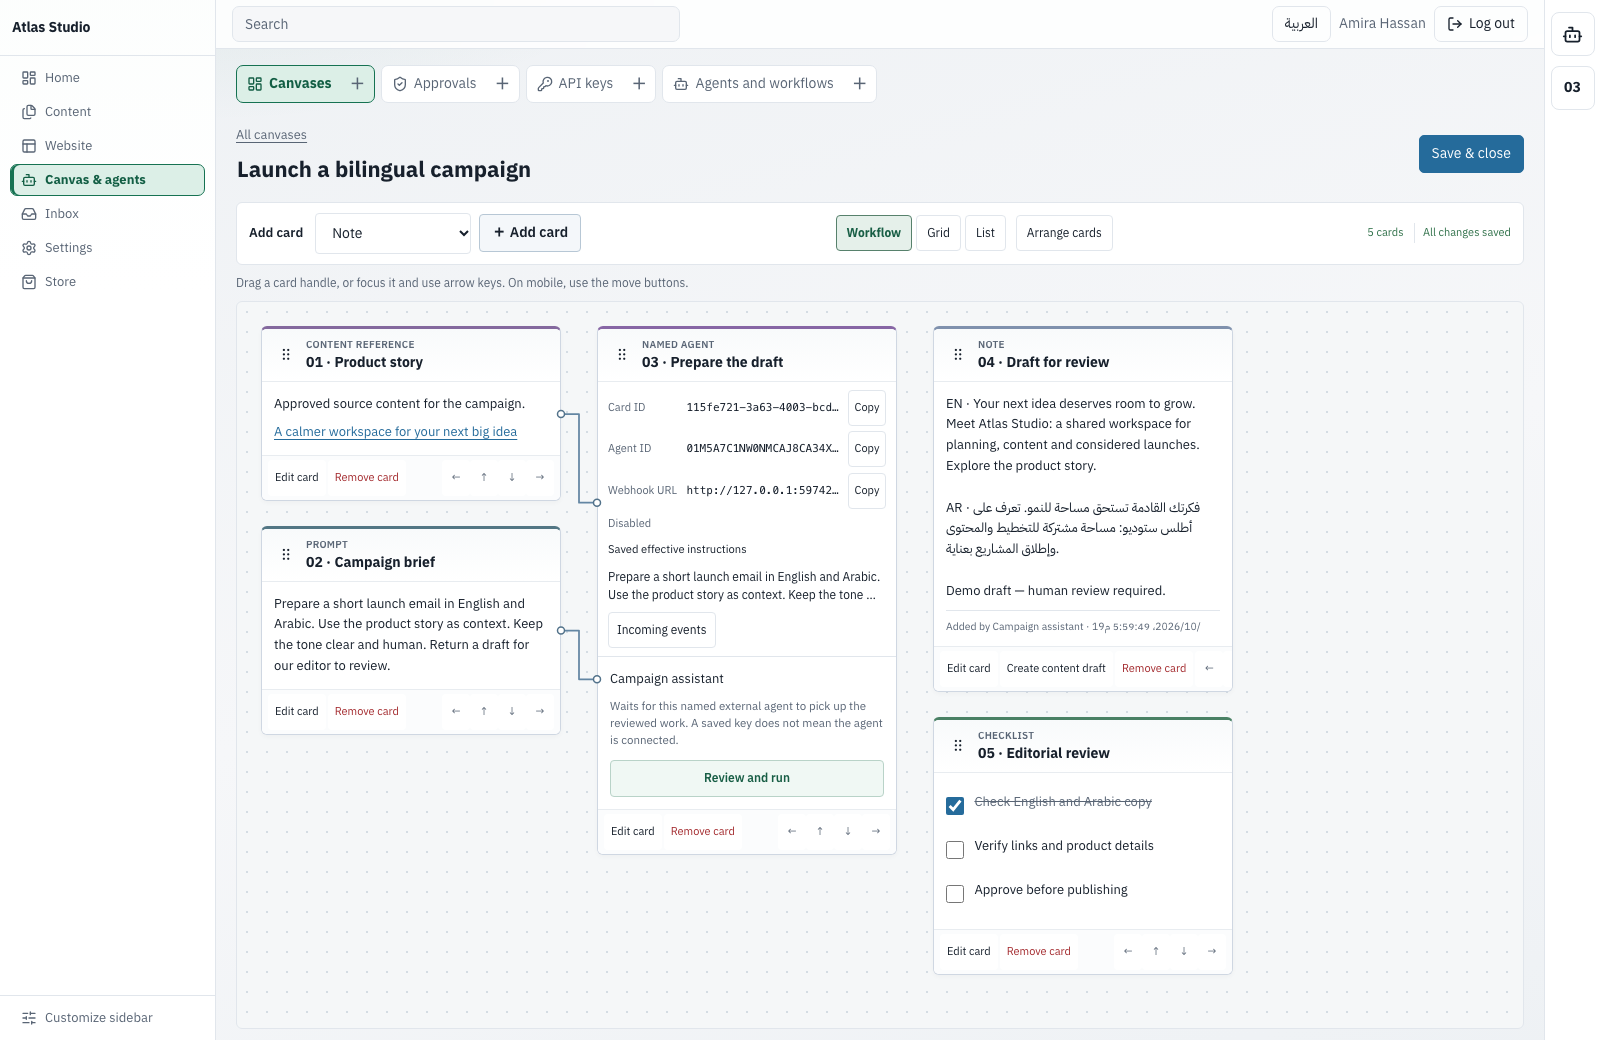
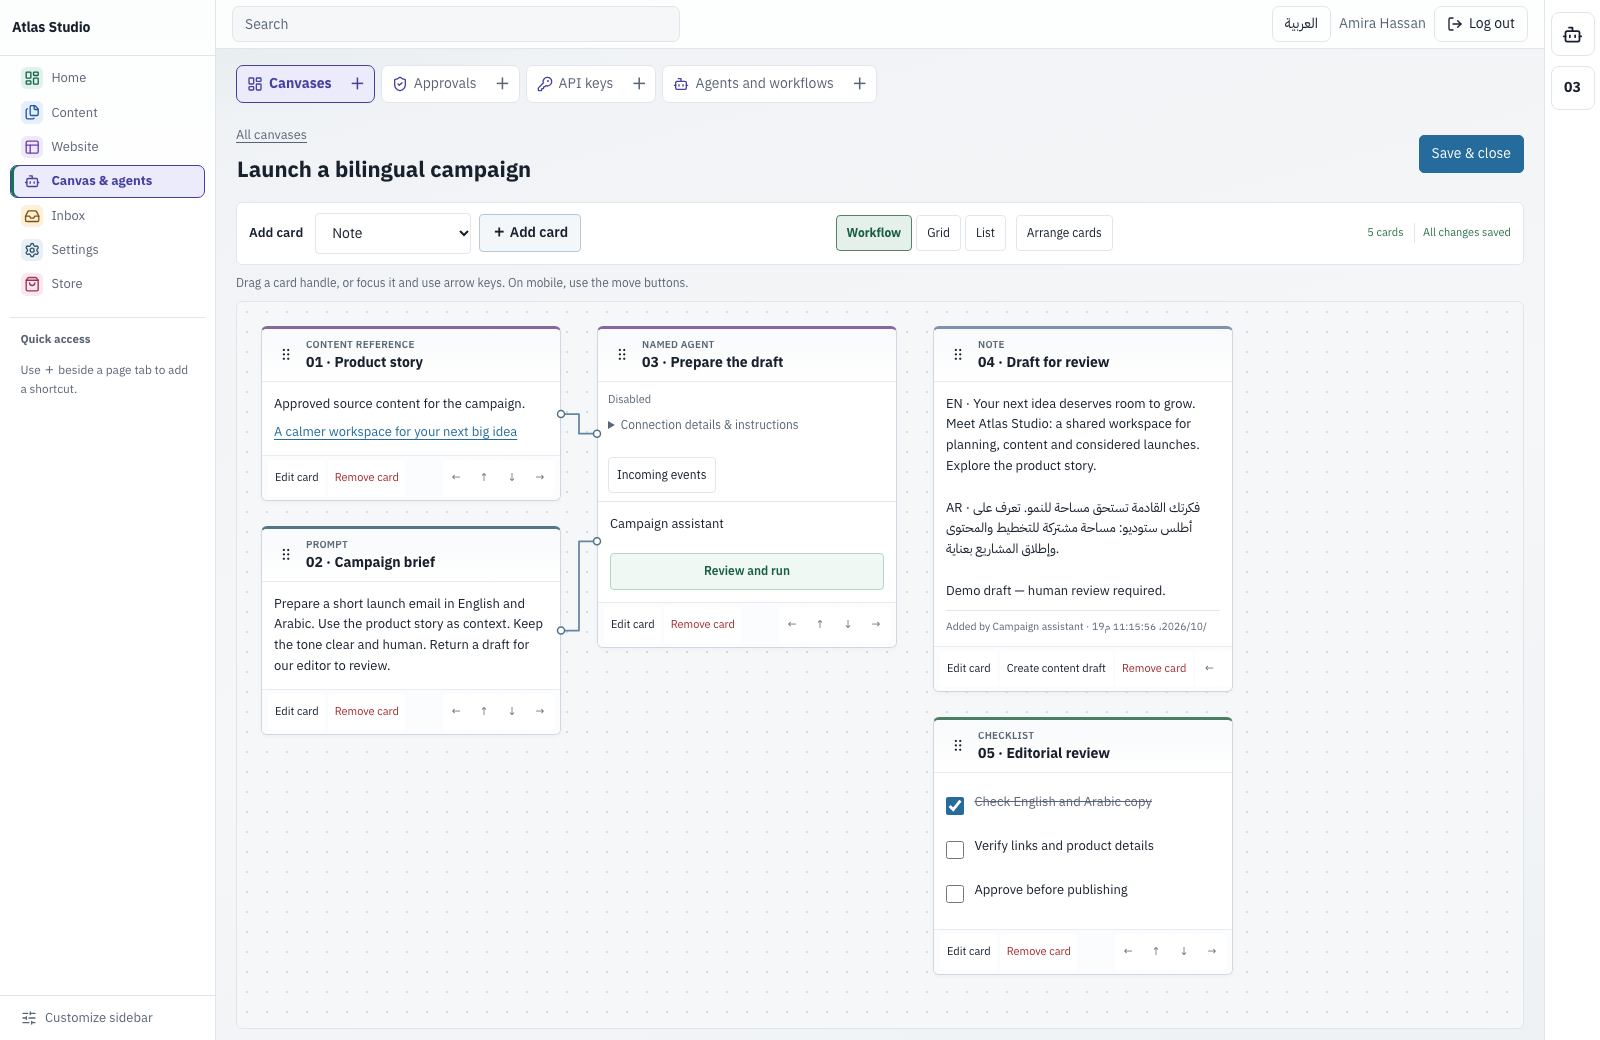
docs: refresh 0.9 workspace screenshots and release guide

diff --git a/docs/ADMIN_WORKSPACE.md b/docs/ADMIN_WORKSPACE.md
@@ -15,7 +15,7 @@ Switching the admin UI language does not change the public `site.locale` or rewr
 
 The dashboard separates everyday work from diagnostics. It opens with a short guide, integration setup status and quick actions, followed by your pinned tools, recent content, audit activity, jobs, system information and your saved canvases. Additional module widgets continue to work.
 
-Arrange dashboard sections by dragging or with their arrow buttons; the order is saved for your account, and **Restore default order** returns to the default layout.
+Open **Customize** before arranging dashboard sections by dragging or with their arrow buttons; the order is saved for your account, and **Restore default order** returns to the default layout.
 
 The recent-content table shows the most recently updated items in public content types, including unpublished items the signed-in user can access. Authors and contributors see only their own items. Private intake reports never enter this table. Titles open the existing content editor; the dashboard never publishes or saves content.
 
@@ -23,7 +23,7 @@ Integration setup status reads local configuration only: opening the dashboard d
 
 ## Pin tools to the dashboard
 
-Use **Add to dashboard** beside an authorized contextual page tab (with touch, mouse or keyboard). The item becomes a personal panel and leaves the contextual navigation; **Return to navigation** puts it back. Pins and their order survive reload and are private to your account. Pinning never changes roles, calls a provider or publishes content, and panels recheck your current permissions.
+Use **Add to dashboard** beside an authorized contextual page tab (with touch, mouse or keyboard). The item becomes a personal dashboard panel and a main-sidebar **Quick access** shortcut, and leaves the contextual navigation; **Return to navigation** puts it back. Pins and their order survive reload and are private to your account. Quick access rechecks current permissions and workspace visibility; hidden or unavailable destinations are not exposed. An old `builder.identity` pin projects to the authorized `site-builder` entry and duplicates are combined without rewriting saved preferences. Pinning never changes roles, calls a provider or publishes content, and panels recheck your current permissions.
 
 The canvas gallery shows only your own saved canvases, with a few safe content previews per board.
 
@@ -43,12 +43,16 @@ Ordering and hiding never grant or revoke permissions. New permitted module link
 
 لوحة الإدارة ثنائية اللغة (عربية وإنجليزية) مع RTL كامل عند اختيار العربية. بدّل لغة الواجهة من زر اللغة في الشريط العلوي. لغة الحساب الافتراضية من **المستخدمون ← تعديل ← اللغة**. لغة الموقع العامة من **الإعدادات ← عام** ولا تتغير تلقائيًا عند تبديل لغة الواجهة.
 
-الرئيسية تبدأ بدليل قصير وحالة إعداد التكاملات والإجراءات السريعة، ثم أدواتك المثبّتة وآخر المحتوى والنشاط والمهام والنظام ولوحاتك المحفوظة. رتّب الأقسام بالسحب أو أزرار الأسهم، ويُحفظ الترتيب لحسابك. الكاتب والمساهم يشاهدان محتواهما فقط، ولا تدخل البلاغات الخاصة في الجدول. حالة الإعداد تقرأ الإعدادات المحلية فقط ولا تختبر أي مزوّد.
+الرئيسية تبدأ بدليل قصير وحالة إعداد التكاملات والإجراءات السريعة، ثم أدواتك المثبّتة وآخر المحتوى والنشاط والمهام والنظام ولوحاتك المحفوظة. افتح «تخصيص» ثم رتّب الأقسام بالسحب أو أزرار الأسهم، ويُحفظ الترتيب لحسابك. الكاتب والمساهم يشاهدان محتواهما فقط، ولا تدخل البلاغات الخاصة في الجدول. حالة الإعداد تقرأ الإعدادات المحلية فقط ولا تختبر أي مزوّد.
 
-استخدم زر «إضافة إلى لوحة التحكم» بجانب تبويب الصفحة داخل قسمها، فيصبح لوحة شخصية ويختفي من القائمة. «إرجاع إلى التنقل» يعيده. التثبيت لا يغيّر الصلاحيات ولا ينشر أي محتوى.
+استخدم زر «إضافة إلى لوحة التحكم» بجانب تبويب الصفحة داخل قسمها، فيصبح لوحة شخصية واختصارًا ضمن «الوصول السريع» في القائمة الرئيسية، ويختفي من تبويبات الصفحات. «إرجاع إلى التنقل» يعيده. التثبيت لا يغيّر الصلاحيات ولا ينشر أي محتوى.
 
 القائمة الرئيسية تجمع الصفحات في ستة أقسام كحد أقصى: الرئيسية، المحتوى، الموقع، الكانفس والوكلاء، الوارد والإعدادات. يظهر المتجر عند توفر أدوات تجارة مسموح بها. اختر القسم ثم التبويب المطلوب؛ الإعدادات تجمع العام والفريق والتكاملات والنظام. تختفي الأقسام الفارغة، وتبقى روابط الإضافات الجديدة متاحة داخل الإعدادات.
 
 من «تخصيص القائمة» يمكنك تحريك المجموعات والعناصر بأزرار لأعلى ولأسفل، وإظهارها أو إخفاؤها، ثم حفظ الترتيب لحسابك فقط. «استعادة الافتراضي» تعيد الترتيب والظهور الأصليين. الصلاحيات لا تتغير.
 
 أول موقع عام: [SITE_BUILDER.md](SITE_BUILDER.md). تبديل القالب: **المظهر ← القوالب**، والتفاصيل في [THEMES.md](THEMES.md).
+
+## Site design
+
+**Website → Design → Site design** shares a saved-site summary and two page tabs: Build site and Visual identity. Creating drafts, activating a prepared site and saving identity remain separate explicit actions. The local identity sample never saves itself. The Build tab requires all existing builder permissions; settings-only users can still open identity. See [the workspace guide](SITE-DESIGN-WORKSPACE.md).

diff --git a/README.md b/README.md
@@ -68,9 +68,9 @@ GoRun Edge is a separate, experimental Workers-based edition with its own D1/R2 
 
 ## A workspace that stays organized
 
-Up to six primary sections keep related tools together, with contextual page tabs above the screen you are using. You see the tools your permissions allow; Store adds an optional seventh section when permitted commerce tools are available. Personal visibility, navigation order and dashboard pins stay yours.
+Up to six primary sections keep related tools together, with contextual page tabs above the screen you are using. You see the tools your permissions allow; Store adds an optional seventh section when permitted commerce tools are available. Colored categories keep their text labels and selected borders. Personal visibility, navigation order and dashboard pins stay yours; pinned tools remain within reach under **Quick access** in the main sidebar.
 
-![GoRun 0.6 content workspace with grouped sections, contextual page tabs and the opposite-side agents rail](assets/branding/screenshots/admin-navigation-en.png)
+![GoRun 0.9 content workspace with grouped sections, contextual page tabs and the opposite-side agents rail](assets/branding/screenshots/admin-navigation-en.png)
 
 The screenshots use an isolated demo site with fictional content. The layout mirrors for Arabic and stays usable on mobile. [Arabic mobile menu](assets/branding/screenshots/admin-navigation-ar-mobile.png) · [Workspace guide](docs/ADMIN_WORKSPACE.md).
 
@@ -90,7 +90,13 @@ Manage posts, pages, custom content types, fields, media and navigation in one p
 
 ## Build a site you can make your own
 
-Start with a bundled theme, create pages with section-based layouts, and preview before publishing. Child themes and filesystem templates let developers customize the result. Activating a theme does not create starter pages; use the site builder for starter content.
+Start with a bundled theme, create pages with section-based layouts, and preview before publishing. Child themes and filesystem templates let developers customize the result. Activating a theme does not create starter pages; use the site builder for starter content. The default reading theme presents a featured article, recent posts and guide links drawn from actual published content. [Default-theme demo](assets/branding/screenshots/theme-home-en.png) · [Arabic article on mobile](assets/branding/screenshots/theme-post-ar-mobile.png).
+
+**Website → Design → Site design** brings **Build site** and **Visual identity** into one workspace. Prepare pages as drafts, review activation separately, and preview colors and typography locally before explicitly saving identity. Existing site content and theme settings remain yours. [Site design guide](docs/SITE-DESIGN-WORKSPACE.md).
+
+![Unified Site design workspace with saved-site summary, visual identity controls and a local sample](assets/branding/screenshots/site-design-identity-en.png)
+
+[Build-site step](assets/branding/screenshots/site-design-build-en.png) · [Arabic mobile identity](assets/branding/screenshots/site-design-identity-ar-mobile.png).
 
 ![Page builder with an Arabic interface and live preview](assets/branding/screenshots/builder-ar.png)
 
@@ -131,6 +137,12 @@ Switch between **Workflow**, **Grid** and **List** views. Arrange cards using th
 *Screenshots use a fictional business and synthetic content. The example assistant response is supplied by a test client through the real MCP workflow; it is not a model-quality benchmark. [Arabic view](assets/branding/screenshots/canvas-ar.png) · [Mobile view](assets/branding/screenshots/canvas-mobile.png).*
 
 **Agent bundles:** add bounded inline skill instructions and reference text to reviewed external-agent or managed-text requests, and attach version-pinned MCP connection profiles with saved discovery status. [Manage skills and MCP references](docs/AGENT-BUNDLES.md). External clients configure their own endpoints, credentials and tools. Named OpenAI-compatible managed text agents can use [explicitly selected MCP tools](docs/MANAGED-MCP-TOOLS.md), with owner review of every exact call and a private final note. This mode starts disabled and supports manual runs only.
+
+**Start from an inspectable role.** Six compact bilingual examples combine five inline skills each. Inspect the instructions, then prepare an unsaved bundle for an owned agent. A role grants no permissions, chooses no provider and makes no tool call. [Role templates](docs/AGENT-ROLE-TEMPLATES.md).
+
+![Compact agent role catalog with labeled categories and expandable skill instructions](assets/branding/screenshots/agent-roles-en.png)
+
+[Arabic mobile roles](assets/branding/screenshots/agent-roles-ar-mobile.png). The catalog shows example instructions; it is not a team of running agents.
 
 [MCP and permissions](docs/MCP.md) · [Canvases](docs/CANVASES.md) · [REST API](docs/API.md)
 

diff --git a/README.ar.md b/README.ar.md
@@ -34,11 +34,19 @@
 
 ### مساحة عمل منظمة
 
-تجمع القائمة الرئيسية الأدوات في ما يصل إلى ستة أقسام، وتظهر تبويبات الصفحات فوق الشاشة التي تستخدمها بحسب صلاحياتك. يضيف المتجر قسمًا سابعًا اختياريًا عند توفر أدوات تجارة مسموح بها. تبقى إعدادات الظهور والترتيب وتثبيت الأدوات خاصة بحسابك، وتنعكس الواجهة للعربية.
+تجمع القائمة الرئيسية الأدوات في ما يصل إلى ستة أقسام، وتظهر تبويبات الصفحات فوق الشاشة التي تستخدمها بحسب صلاحياتك. يضيف المتجر قسمًا سابعًا اختياريًا عند توفر أدوات تجارة مسموح بها. تحتفظ التصنيفات الملونة بأسمائها وحدود التحديد الواضحة. تبقى إعدادات الظهور والترتيب والتثبيت خاصة بحسابك؛ وتظل الأدوات المثبّتة متاحة ضمن «الوصول السريع» في القائمة الرئيسية، وتنعكس الواجهة للعربية.
 
-![أقسام GoRun 0.6 المنظمة وتبويبات المحتوى وشريط الوكلاء المقابل بالعربية](assets/branding/screenshots/admin-navigation-ar.png)
+![أقسام GoRun 0.9 المنظمة وتبويبات المحتوى وشريط الوكلاء المقابل بالعربية](assets/branding/screenshots/admin-navigation-ar.png)
 
 الصور من موقع تجريبي معزول بمحتوى خيالي. [قائمة الأقسام على الموبايل بالعربية](assets/branding/screenshots/admin-navigation-ar-mobile.png) · [دليل مساحة العمل](docs/ADMIN_WORKSPACE.md).
+
+### تصميم الموقع في مساحة واحدة
+
+من **الموقع ← التصميم ← تصميم الموقع** انتقل بين «ابنِ الموقع» و«الهوية البصرية». جهّز الصفحات كمسودات، وراجع التفعيل منفصلًا، وعاين الألوان والخطوط محليًا قبل حفظ الهوية صراحةً. [دليل المساحة](docs/SITE-DESIGN-WORKSPACE.md).
+
+![مساحة تصميم الموقع الموحدة بالعربية مع معاينة محلية لا تحفظ تلقائيًا](assets/branding/screenshots/site-design-identity-ar.png)
+
+[هوية الموقع بالإنجليزية](assets/branding/screenshots/site-design-identity-en.png) · [الهوية بالعربية على الموبايل](assets/branding/screenshots/site-design-identity-ar-mobile.png) · [خطوة بناء الموقع](assets/branding/screenshots/site-design-build-en.png).
 
 ### للوكلاء
 
@@ -71,6 +79,14 @@ If a tool requests approval, report its request ID and wait for the decision.
     <td><strong>الموافقات</strong><br />طلبات الوكيل الحساسة تنتظر قرارًا بشريًا.</td>
   </tr>
 </table>
+
+### قوالب أدوار قابلة للفحص
+
+ستة أمثلة ثنائية اللغة، لكل منها خمس مهارات نصية، في كروت مختصرة يمكن توسيع تعليماتها. افحص الدور ثم جهّز مسودة إعداد لوكيل تملكه؛ اختيار الدور لا يمنح صلاحيات ولا يختار مزوّدًا ولا يستدعي أداة. [قوالب الأدوار](docs/AGENT-ROLE-TEMPLATES.md).
+
+![قوالب أدوار الوكلاء المختصرة بتصنيفات ملونة وتعليمات قابلة للتوسيع](assets/branding/screenshots/agent-roles-ar.png)
+
+[الأدوار بالعربية على الموبايل](assets/branding/screenshots/agent-roles-ar-mobile.png). هذه أمثلة تعليمات، وليست فريقًا من الوكلاء يعمل تلقائيًا.
 
 ### اللوحات (Canvases)
 

diff --git a/CHANGELOG.md b/CHANGELOG.md
@@ -9,6 +9,9 @@ All notable changes to GoRun are recorded here. The format follows
 
 This release improves daily administration and adds inspectable agent role templates.
 
+- Colored, labeled navigation categories and private Quick access shortcuts in the main sidebar, rechecking current permissions and visibility without changing roles. Legacy identity pins map to the authorized unified Site design entry.
+- A unified Site design workspace for draft preparation and visual identity, with separate explicit save/activation, preserved deep links and a local identity sample.
+- A refreshed default reading theme with genuine starter examples, a featured article, recent posts and guide links; existing authored content and stored identity are preserved.
 - A work-first dashboard, explicit customization, clearer content publishing actions, page hierarchy, media list/details and guided website setup.
 - Shared staff navigation for agent management and app subscriptions, with customer-facing routes and permissions preserved.
 - A detailed MCP/AI/S3 connection directory with searchable columns, saved credential presence and historical test results. Browsing the directory never probes a provider.
@@ -515,7 +518,8 @@ linux and darwin (amd64, arm64) with checksums.
 - Hosting-platform add-ons, brand themes and the commands that served them (`tenant-init`,
   `addon-install`, `page-catalog`) are no longer part of the core.
 
-[Unreleased]: https://github.com/zadstack/gorun/compare/v0.8.0...HEAD
+[Unreleased]: https://github.com/zadstack/gorun/compare/v0.9.0...HEAD
+[0.9.0]: https://github.com/zadstack/gorun/compare/v0.8.0...v0.9.0
 [0.8.0]: https://github.com/zadstack/gorun/compare/v0.7.0...v0.8.0
 [0.7.0]: https://github.com/zadstack/gorun/compare/v0.6.0...v0.7.0
 [0.6.0]: https://github.com/zadstack/gorun/compare/v0.5.0...v0.6.0

diff --git a/docs/SITE_BUILDER.md b/docs/SITE_BUILDER.md
@@ -1,6 +1,6 @@
 # دليل إنشاء موقع في GoRun
 
-ابدأ من **المظهر ← ابنِ موقعك** داخل لوحة الإدارة. تحتاج حساب مدير لإنشاء الموقع وتفعيله. المعالج يجهز صفحات قابلة للتعديل؛ الموقع الحالي يظل كما هو حتى تختار **نشر وتفعيل الموقع**.
+ابدأ من **الموقع ← التصميم ← تصميم الموقع ← ابنِ الموقع** داخل لوحة الإدارة. تحتاج صلاحيات إعدادات الموقع وإنشاء المحتوى وتعديله ونشره وإدارة القوائم لإنشاء الموقع وتفعيله. تبويب «الهوية البصرية» يشترك معه في مساحة التصميم، لكنه يحتفظ بحفظه اليدوي المنفصل. المعالج يجهز صفحات قابلة للتعديل؛ الموقع الحالي يظل كما هو حتى تختار **نشر وتفعيل الموقع**.
 
 لتبديل لغة لوحة الإدارة (عربية ⇄ English) استخدم زر اللغة في الشريط العلوي؛ لغة الموقع العامة تُضبط في **الإعدادات ← عام**. راجع [مساحة الإدارة](ADMIN_WORKSPACE.md).
 
